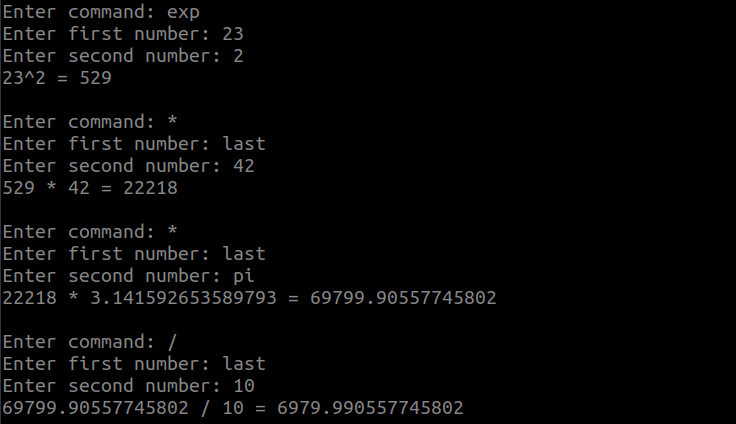
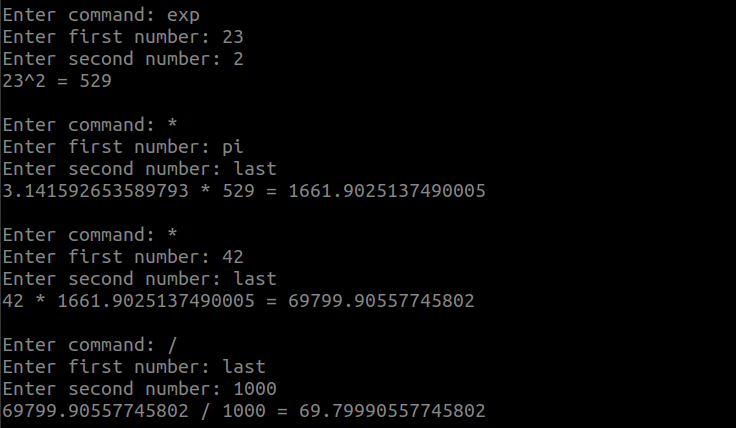
Fixed typos

diff --git a/dokumentaatio/kayttoohje.md b/dokumentaatio/kayttoohje.md
@@ -48,7 +48,7 @@ A square root will result in a plusminus answer, that will count as one calculat
 
 Example of finding volume of a cylinder with 23cm radius and 42cm height.
 ![Volume of a Cylinder](./photos/cylinder-volume.png)  
-In the end we divide the result by 10 to get the volume in liters and round up manually, result ≈ 6980L.
+In the end we divide the result by 1000 to get the volume in liters and round up manually, result ≈ 69.8L.
  
 
 Commands for utility.  
